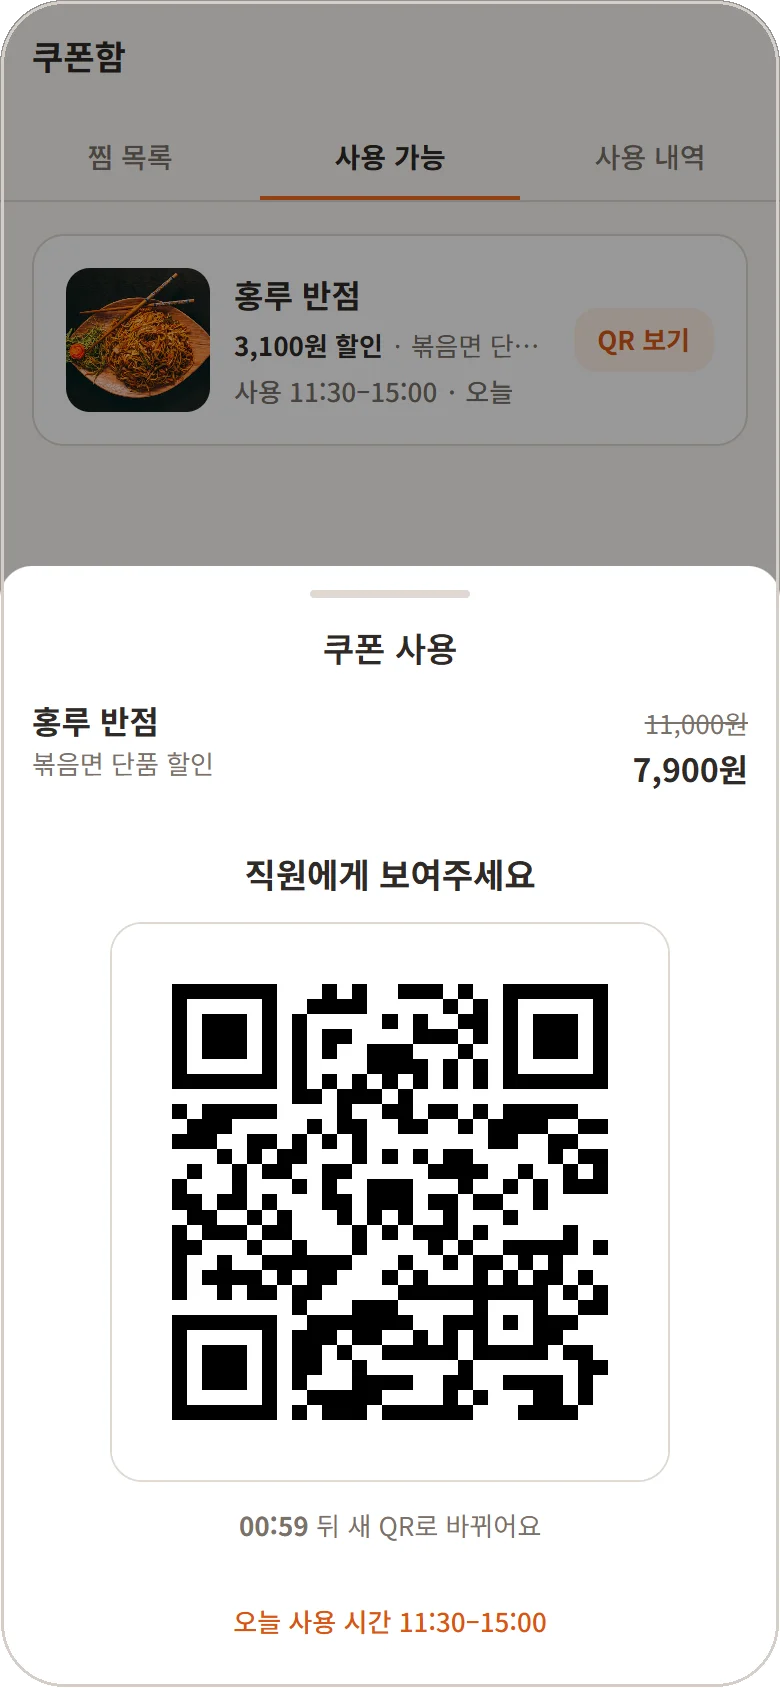
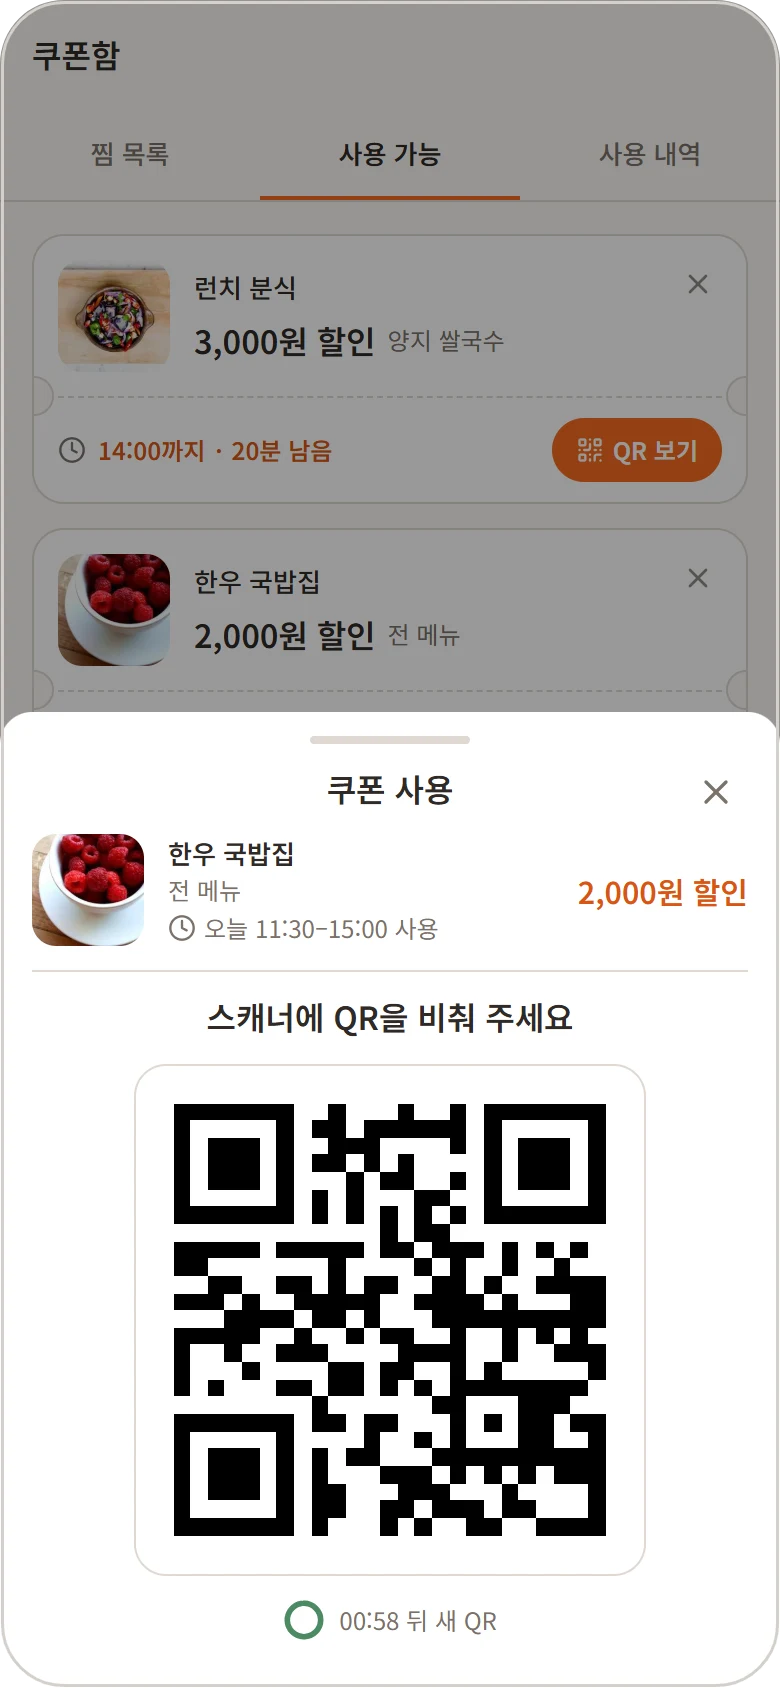
docs: 사용자 앱 README를 현재 구현에 맞게 다시 작성
- 발급 시간대와 서버 시각 기준 등 틀린 설명 정정, 서비스 규칙 표 추가
- 스크린샷 6장을 현재 화면으로 교체하고 테두리 통일
- 구현 고민을 핵심 3개와 표로 정리하고 개선 과제 추가
- 시각 확인 옵션은 접기로, 마이페이지 등 화면과 폴더 구조 반영

diff --git a/apps/user/README.md b/apps/user/README.md
@@ -1,14 +1,41 @@
 # 🍱 런치캐치 · 사용자 앱
 
-> 직장인이 회사 근처 가게의 점심 쿠폰을 넘겨 보며 찜하고, 11:00 선착순으로 받아 매장에서 사용하는 모바일 웹
+> 회사 근처 가게의 점심 쿠폰을 직장인에게 이어주는 위치 기반 모바일 웹
+>
+> **오늘 점심을 넘겨 보며 찜 → 11:00 선착순 발급 → 매장에서 QR로 사용**
 
 [← 프로젝트 README로 돌아가기](../../README.md)
 
-| 오늘 점심 | 찜 목록 | 쿠폰 QR |
+| ① 오늘 점심 | ② 찜 목록 | ③ 쿠폰 QR |
 | :---: | :---: | :---: |
 | <img src="../../docs/images/user-swipe.webp" alt="오늘 점심 스와이프 피드" width="240" /> | <img src="../../docs/images/user-wishlist-open.webp" alt="11:00 오픈 뒤 찜 목록" width="240" /> | <img src="../../docs/images/user-coupon-qr.webp" alt="60초 1회용 쿠폰 QR" width="240" /> |
-| **탐색** | **지도 보기** | **가게 상세** |
-| <img src="../../docs/images/user-explore.webp" alt="업종 필터와 검색이 있는 탐색 목록" width="240" /> | <img src="../../docs/images/user-explore-map.webp" alt="할인율 핀이 있는 지도 보기" width="240" /> | <img src="../../docs/images/user-store-detail.webp" alt="오늘의 쿠폰과 바로 받기 버튼이 있는 가게 상세" width="240" /> |
+
+| 탐색 | 지도 보기 | 가게 상세 |
+| :---: | :---: | :---: |
+| <img src="../../docs/images/user-explore.webp" alt="오픈 안내 배너와 가까운 쿠폰 슬라이드가 있는 탐색 목록" width="240" /> | <img src="../../docs/images/user-explore-map.webp" alt="할인율 핀이 있는 지도 보기" width="240" /> | <img src="../../docs/images/user-store-detail.webp" alt="오늘의 쿠폰과 바로 받기 버튼이 있는 가게 상세" width="240" /> |
+
+<br>
+
+## 목차
+
+- [서비스 규칙](#서비스-규칙)
+- [주요 화면](#주요-화면)
+- [구현 고민](#구현-고민)
+- [개선 과제](#개선-과제)
+- [실행](#실행)
+- [폴더 구조](#폴더-구조)
+
+<br>
+
+## 서비스 규칙
+
+| 규칙 | 내용 |
+| --- | --- |
+| 발급 시간 | 매일 11:00 선착순 오픈, 14:00 마감 |
+| 발급 대상 | 찜한 쿠폰만 가능. 오늘 점심 카드에는 발급 버튼이 없음 |
+| 한도 | 하루 최대 3개, 같은 쿠폰은 한 번만 |
+| 수량 | 가게마다 정해진 수량만큼만 발급, 소진되면 마감 |
+| 사용 | 매장에서 QR을 보여주면 점주가 스캔. QR은 60초마다 새로 만들어지는 1회용 |
 
 <br>
 
@@ -16,22 +43,57 @@
 
 | 화면 | 주소 | 설명 |
 | --- | --- | --- |
-| 로그인 · 온보딩 | `/login`, `/onboarding` | 카카오 로그인, 약관 동의, 관심 업종 설정, 서비스 안내 튜토리얼 |
-| 오늘 점심 | `/swipe` | 서빙 시간대(10:00~12:59)에 주변 가게의 쿠폰 포스터를 카드로 넘기며 찜 또는 패스 |
-| 찜 목록 | `/coupons/wishlist` | 11:00 오픈 카운트다운, 오픈 뒤 찜한 쿠폰 바로 발급, 하루 발급 한도와 수량 소진 안내 |
-| 쿠폰함 | `/coupons`, `/coupons/history` | 받은 쿠폰의 60초 1회용 QR 표시, 사용 내역 확인 |
-| 탐색 | `/explore` | 업종 필터, 가게명·메뉴 검색, 목록·지도 전환 |
-| 가게 상세 | `/stores/:storeId` | 메뉴, 영업 정보, 위치, 오늘의 쿠폰과 포스터 표시, 바로 찜과 쿠폰 발급 |
+| 로그인 · 온보딩 | `/login`, `/onboarding` | 카카오 로그인, 약관 동의, 관심 업종과 내 위치 설정, 서비스 안내 |
+| 오늘 점심 | `/swipe` | 쿠폰 포스터 카드를 넘기며 찜 또는 패스. 업종 · 정렬 필터 |
+| 찜 목록 | `/coupons/wishlist` | 11:00 카운트다운, 오픈 뒤 쿠폰 발급, 오늘 끝난 찜은 접어서 정리 |
+| 쿠폰함 | `/coupons`, `/coupons/history` | 받은 쿠폰의 QR, 사용 · 만료 내역 |
+| 탐색 | `/explore` | 오픈 안내 배너, 가까운 쿠폰 슬라이드, 가게 목록 · 지도, 업종 필터, 검색 |
+| 가게 상세 | `/stores/:storeId` | 메뉴, 영업 정보, 위치, 오늘의 쿠폰과 포스터, 바로 찜 · 발급 |
+| 마이페이지 | `/my` 아래 | 프로필, 내 위치, 동의 항목, 화면 테마, 회원 탈퇴 |
 
 <br>
 
-## 구현하며 고민한 것
+## 구현 고민
 
-<!-- TODO: 트러블슈팅과 함께 내용 채우기 -->
+### 11:00 오픈 시각 맞추기
 
-- **11:00 정각 맞추기**: 휴대폰 시계가 아닌 서버 시각을 기준으로 카운트다운하고, 오픈 순간 새로고침 없이 받기 버튼으로 전환
-- **점주 포스터 격리**: 점주가 만든 포스터 HTML을 `sandbox` iframe 안에서만 그려 스크립트와 외부 이동 차단
-- **API 연결 전 화면 개발**: mock 데이터와 주소 옵션으로 선착순 오픈 전후, 마감, 하루 한도 같은 상태별 화면 확인
+11:00이 되면 새로고침 없이 받기 버튼이 나와야 하고, 화면을 켜 둔 채 날이 바뀌어도 안내가 맞아야 함. 하루 종일 1초마다 시계를 돌리면 화면이 계속 다시 그려져서 단계별로 나눔. 오픈 전에는 1초마다, 발급 중에는 14:00에 한 번, 마감 뒤에는 다음 날 00:00에 한 번만 깨움. 한 번만 알면 되는 곳(찜한 직후의 토스트)은 시계 없이 그 순간의 단계만 계산함.
+
+### 화면 번쩍임 줄이기
+
+응답이 빠르면 회색 로딩 틀이 잠깐 나왔다 사라져 오히려 화면이 깜빡임. 로딩이 300ms를 넘을 때만 틀을 보여주고, 한 번 보여준 틀은 400ms 동안 유지함. 목록을 다시 받을 때는 비우지 않고 이전 목록을 남기며, 틀의 높이를 실제 화면과 맞춰 내용이 밀리지 않게 함. 화면마다 프레임 단위로 위치와 표시 여부를 측정해 확인함.
+
+### 섞여 오는 가게 목록 구성
+
+서버가 쿠폰 가게와 일반 가게를 거리순으로 섞어 내려줌. "쿠폰 가게 / 다른 가게"로 나누면 더 불러올 때마다 쿠폰 가게가 위로 끼어들어 개수가 바뀌고 보던 자리가 흐트러짐. 서버 정렬 변경은 어려워 프론트에서 구조를 바꿈. 쿠폰 가게는 위의 가까운 순 슬라이드가 맡고, 아래는 하나의 목록에 "가게 더 보기"로 10곳씩 맨 아래에만 붙임. 새 가게가 항상 맨 아래에 붙어 보던 내용이 움직이지 않음. 가게 상세를 보고 돌아오면 받아 둔 목록, 펼친 개수, 스크롤 위치를 5분 동안 메모리에 두었다가 복원함.
+
+### 그 밖의 고민
+
+| 주제 | 문제 | 선택 |
+| --- | --- | --- |
+| 스와이프 이어 붙이기 | 마지막 카드 뒤에 로딩 화면이 뜨고, 피드 API 요청 제한 때문에 탭을 오갈 때마다 다시 받을 수 없음 | 남은 카드가 2장 이하면 다음 피드와 포스터 이미지를 미리 받아 이어 붙임. 요청할 수 있는 시각에만 받고 앱이 뒤로 가 있으면 받지 않음. 보던 카드는 탭을 닫기 전까지 저장하되, 30분이 지났거나 날짜가 바뀌면 버림 |
+| 점주 포스터 표시 | 점주가 만든 HTML이라 그대로 그리면 스크립트와 외부 이동이 가능하고, 이미지가 늦게 뜨면 카드가 번쩍임 | `sandbox` iframe 안에서만 그리고, 포스터 속 이미지까지 받은 뒤 서서히 보여줌. A4 비율에 맞춰 화면 높이로 폭을 계산 |
+| 선착순 발급 | 11:00 직후 연타, 수량 소진, 한도 초과, 요청 폭주가 한꺼번에 생김 | 발급은 한 번에 하나만 진행하고 실패 사유마다 다른 안내를 보여줌. 성공이든 실패든 잔여 수량과 쿠폰 목록을 다시 받고, 다시 받지 못하면 받은 카드만 직접 "받음"으로 바꿈 |
+| 로그인 유지 | 여러 요청이 동시에 401을 받아 재발급이 겹치면, 서버가 같은 Refresh Token의 재사용으로 보고 모든 로그인을 끊음 | 재발급은 진행 중인 요청 하나를 모두가 함께 기다림. 서버 일시 오류(503)나 네트워크 오류는 로그인을 끊지 않고 오류만 올림 |
+
+<details>
+<summary><b>더 보기</b></summary>
+
+<br>
+
+- **QR은 60초마다 새로**: 쿠폰 QR은 60초짜리를 받아 만료되면 새로 받음. 연결이 끊기면 새로 받지 않고 마지막 QR을 그대로 두며, 이미 사용했거나 사용 시간이 아니면 쿠폰 상태 확인이 화면을 바꿈
+- **움직임 줄이기 존중**: 로그인 첫 등장 효과, 카운트다운 숫자 롤링, 슬라이드 자동 넘김을 `prefers-reduced-motion`에서는 모두 끔
+- **터치 기기의 hover**: 모바일에서 탭한 뒤 마우스가 올라간 것으로 남아 자동 넘김이 멈추는 문제를, 마우스 포인터일 때만 hover로 보게 해 해결
+
+</details>
+
+<br>
+
+## 개선 과제
+
+- **서버 시각 기준 카운트다운**: 지금은 휴대폰 시계를 기준으로 하고 있어 시계가 틀리면 오픈 시각이 어긋남. 서버 시각과의 차이로 보정하는 작업이 필요
+- **미리 받은 피드 묶음 보존**: 화면을 떠났다 돌아오면 미리 받아 둔 묶음은 사라지고 평소 경로로 다시 받음. 묶음 자체를 세션에 저장하는 방식으로 개선 가능
+- **쿠폰 가게 우선 정렬**: 서버가 쿠폰 가게를 먼저 정렬해 주면 프론트의 슬라이드와 목록 분리 없이도 같은 경험을 만들 수 있음
 
 <br>
 
@@ -39,25 +101,29 @@
 
 - 루트 폴더에서 실행
 - 설치와 환경 변수: [포팅 매뉴얼](../../README.md#포팅-매뉴얼)
+- 가게, 쿠폰, 피드는 모두 백엔드 API를 호출하므로 서버가 있어야 화면이 채워짐
+- 기술 스택: React 19, TypeScript, Vite, React Router, Tailwind CSS v4, 카카오 로그인 · 지도
 
 ```bash
 pnpm dev:user   # http://localhost:5173
 ```
 
-### mock 상태 확인
+<details>
+<summary><b>시각 바꿔 확인하기 (개발 모드)</b></summary>
 
-- API 연결 전에는 mock 데이터로 동작
-- 주소 뒤에 아래 옵션을 붙이면 상태별 화면을 바로 확인 가능
+<br>
+
+- 주소 뒤에 `?mockTime=` 옵션을 붙이면 그 시각부터 시계가 흐르고, 앱 안에서 화면을 옮겨도 유지
+- 서버 응답은 실제 서버 시각 기준이라 화면의 시각만 바뀜. 오픈 전후 화면과 카운트다운 확인용
 
 | 옵션 | 확인할 수 있는 상태 |
 | --- | --- |
-| `?mockTime=10:59:50` | 그 시각부터 시계가 흐름 (11:00 오픈 전후 확인) |
-| `?mockFeedClosed` | 서빙 시간대가 아닐 때의 오늘 점심 화면 |
-| `?mockWishlistEmpty` | 빈 찜 목록 |
-| `?mockDailyLimit` | 하루 발급 한도에 닿은 상태 |
-| `?mockIssueSoldOut` | 받는 사이 수량이 소진된 경우 |
-| `?mockCouponsEmpty` | 받은 쿠폰이 없는 쿠폰함 |
-| `?mockStoresEmpty` | 주변에 가게가 없는 탐색 화면 |
+| `?mockTime=10:30` | 11:00 오픈 전 (카운트다운, 오픈 전 배너) |
+| `?mockTime=10:59:50` | 11:00 오픈 직전부터 오픈 순간까지 |
+| `?mockTime=11:30` | 선착순 발급 중 |
+| `?mockTime=15:00` | 오늘 발급 마감 뒤 |
+
+</details>
 
 <br>
 
@@ -68,15 +134,18 @@ src/
 ├── app/            # 라우터
 ├── pages/          # 주소 하나에 대응하는 화면
 ├── features/
-│   ├── login/          # 카카오 로그인
+│   ├── login/          # 카카오 로그인, 스플래시
 │   ├── onboarding/     # 약관 동의, 관심 업종 설정
+│   ├── location/       # 내 위치 설정, 주소 검색
 │   ├── tutorial/       # 서비스 안내
 │   ├── swipe/          # 오늘 점심 스와이프 피드
 │   ├── wishlist/       # 찜 목록, 11:00 오픈 카운트다운
-│   ├── coupon/         # 쿠폰함, QR
-│   ├── explore/        # 탐색 목록, 지도
-│   └── store-detail/   # 가게 상세
+│   ├── coupon/         # 쿠폰함, QR, 사용 내역
+│   ├── explore/        # 탐색 배너, 슬라이드, 목록, 지도
+│   ├── store-detail/   # 가게 상세
+│   └── mypage/         # 프로필, 설정, 회원 탈퇴
 ├── ui/             # 여러 기능이 함께 쓰는 컴포넌트
+├── hooks/          # 여러 기능이 함께 쓰는 훅 (오픈 카운트다운, 포스터 미리 받기 등)
 ├── layout/         # 하단 탭바, 상단 바 틀
 ├── api/            # 서버 요청 함수와 mock 데이터
 └── auth/           # 로그인 상태와 접근 제어
